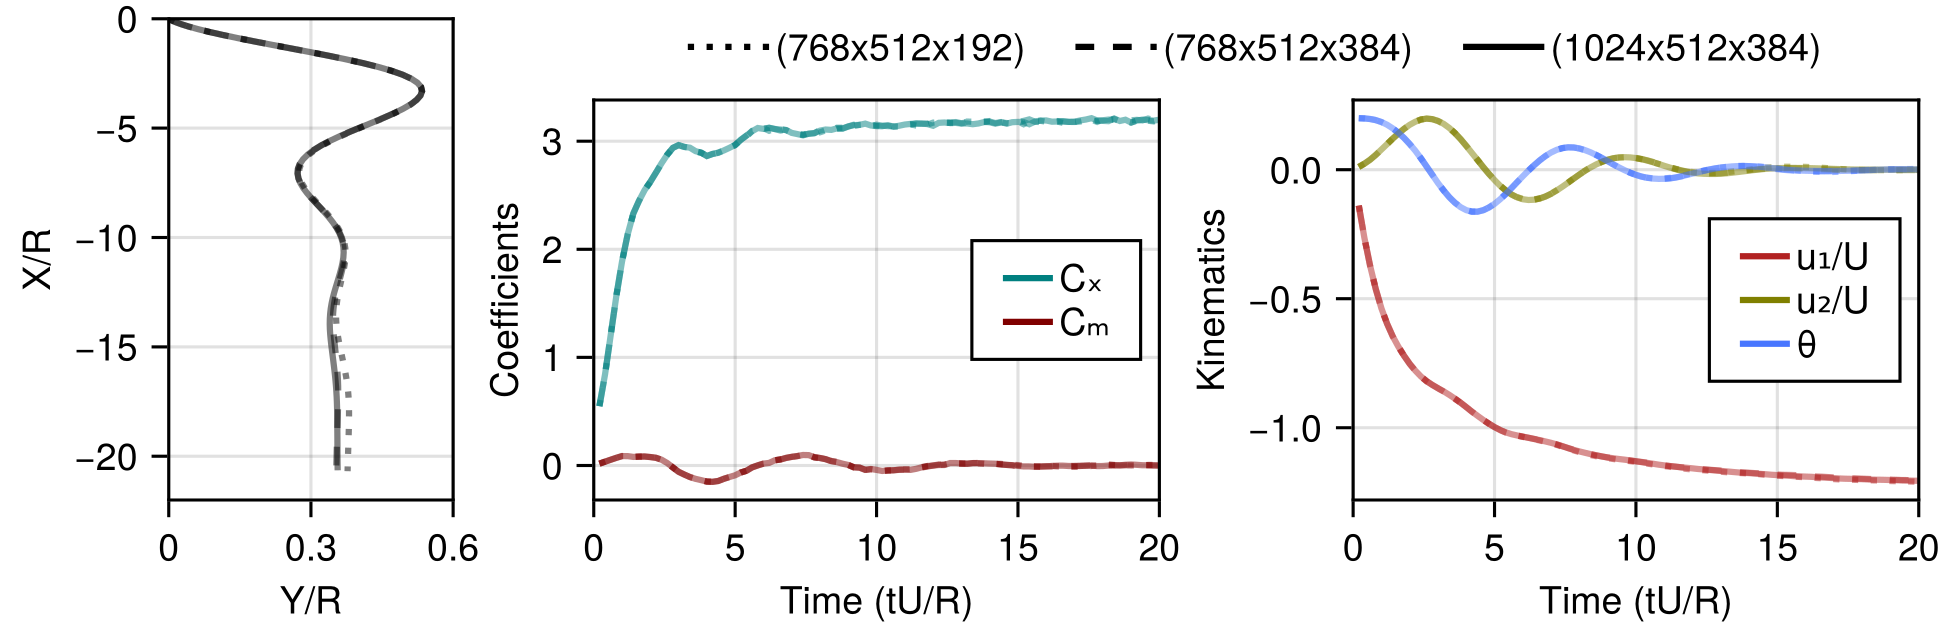
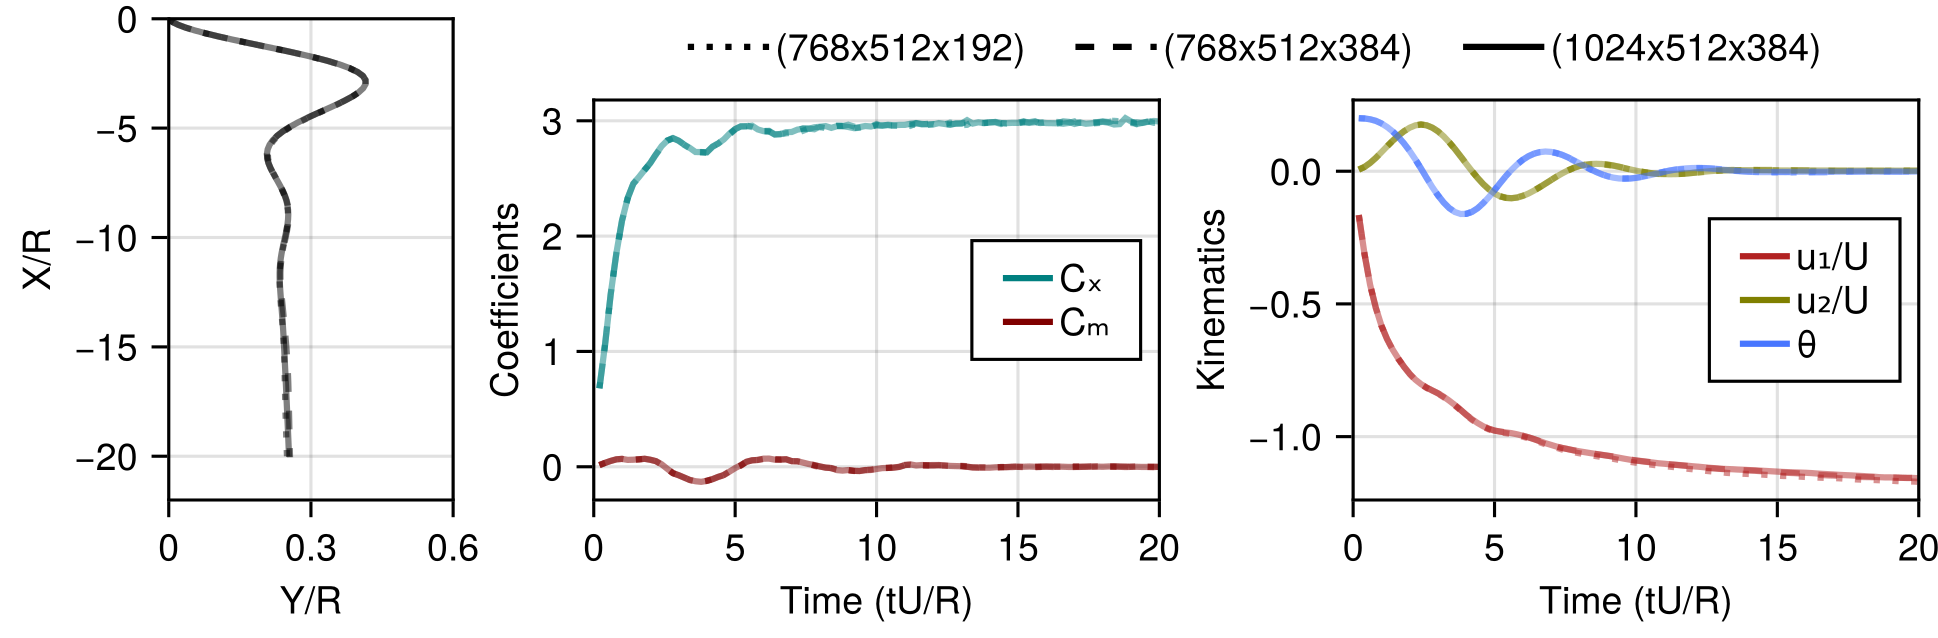
getting ready for the merge
updated images and scripts. unfortunately, the tex is out of sync. that'll be done next.

diff --git a/paper/JFM_paper.tex b/paper/JFM_paper.tex
@@ -229,7 +229,7 @@ We next study the impact of deployment length on the falling dynamics of the kir
 \begin{figure}
     \centering
     \includegraphics[width=\linewidth]{fig/kirigami_results.png}
-    \caption{(Left) falling path, (center) vertical falling velocity and (right) the damping coefficient and terminal falling velocity of the kirigami parachute for different initial rotation angle $\theta_0$ (line color) and deployment ratio $H$ (line thickness). The damping coefficient is obtained from a log-decrement test of $u_{{\cal B},1}$ and the terminal falling velocity is the average of the last oscillation cycle.}
+    \caption{(Left) falling path, (center) vertical falling velocity and (right) the damping coefficient and terminal falling velocity of the kirigami parachute for different initial rotation angle $\theta_0$ (line color) and deployment ratio $H$ (line thickness). The damping coefficient is obtained from a log-decrement test of $\theta$ and the terminal falling velocity is the average of the last oscillation cycle.}
     \label{fig:results}
 \end{figure}
 
@@ -258,7 +258,7 @@ meaning the coupled side-slip and rotation will lead to a flutter instability wh
 \begin{equation}
     C_L'\,I^* > 2C_\Omega\, m^*. \label{eq:flutter}
 \end{equation}
-Equation~\ref{eq:flutter} identifies the destabilizing role of side-force generation and rotational added inertia, which are substantial for $H\le1/4$ but drop rapidly with $H$, Fig~\ref{fig:Cd}. In contrast, $m^*\approx m/\rho R^3$ for all $H$, and we expect $C_\Omega$ to quickly stabilize due to the moment-arm effect, similar to $C_M$, such that the balance changes quickly to favor stable falling. The log-decrement measurements of the effective damping jump from $\zeta(H=1/4)=-0.02$ to $\zeta(H=1/2)=0.02$, Figure~\ref{fig:results}. Further increasing the deployment, the parachute remains stable, but the damping coefficient gradually decreases due to the increased inertia for $H>1$.
+Equation~\ref{eq:flutter} identifies the destabilizing role of side-force generation and rotational added inertia, which are substantial for $H\le1/4$ but drop rapidly with $H$, Fig~\ref{fig:Cd}. In contrast, $m^*\approx m/\rho R^3$ for all $H$, and we expect $C_\Omega$ to quickly stabilize due to the moment-arm effect, similar to $C_M$, such that the balance changes quickly to favor stable falling. The log-decrement measurements of the effective damping jump from $\zeta(H=1/4)=-0.07$ to $\zeta(H=1/2)=0.13$, Figure~\ref{fig:results}. Further increasing the deployment, the damping coefficient rises to $\zeta\approx0.27$ at $H=1$ and then plateaus, $\zeta\approx0.24$ for $H>1$.
 
 % \begin{table}
 %     \centering

diff --git a/README.md b/README.md
@@ -30,7 +30,6 @@ julia --project -t auto figures/figures.jl
 | `scripts/added_mass.jl` | `kirigami_parameters.jld2` | `figure_4`, free fall |
 | `scripts/aoa_sweep.jl` | `kirigami_N128_H*_AoA_fall.jld2` | `figure_4` |
 | `scripts/free_fall.jl` | `kirigami_N128_*_fall.jld2` | `figure_5`, `figure_6` |
-| `scripts/load_dependent_check.jl` | `load_dependent_check/kirigami_N128_*_fall.jld2` | load-dependent mass check |
 | `scripts/free_fall_video.jl` | VTK fields (~500 GB) | supplementary videos |
 | `scripts/sphere.jl` | `sphere_*.jld2` | `figure_A2` |
 | `scripts/impulsive_circle.jl` | `ImpCircle_results.jld2` | `figure_A1` |
